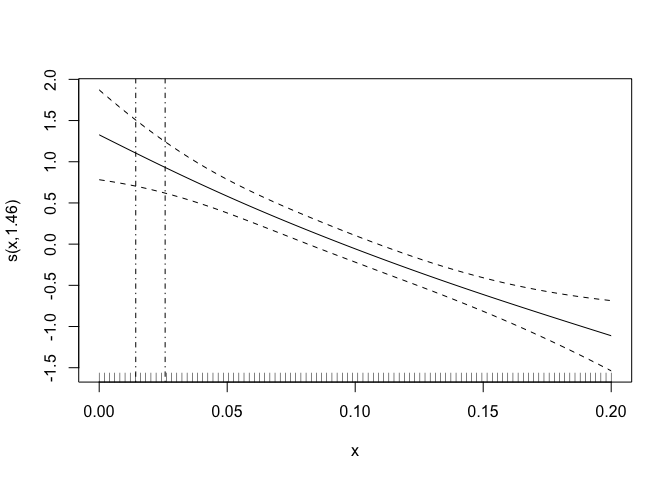
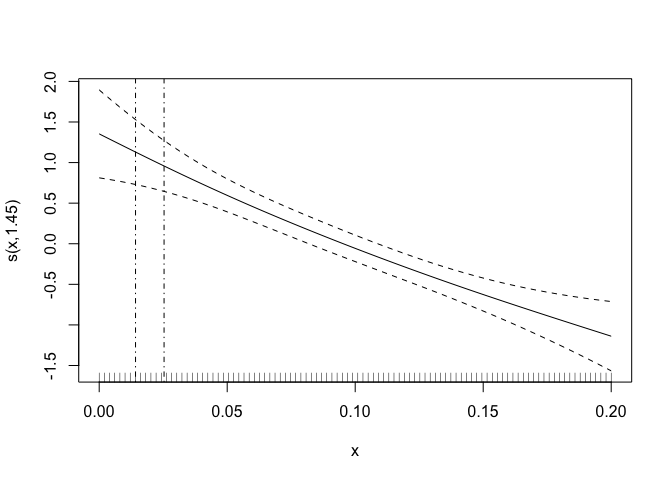
added computation times

diff --git a/README.md b/README.md
@@ -34,12 +34,12 @@ head(dat)
 ```
 
     ##          y           x         x1         x2
-    ## 1 5.567913 0.000000000 0.14743287 0.17684554
-    ## 2 6.073063 0.002020202 0.01475311 0.06008934
-    ## 3 5.103770 0.004040404 0.17848509 0.07211622
-    ## 4 3.949342 0.006060606 0.03116702 0.05770544
-    ## 5 2.025384 0.008080808 0.02020776 0.10705371
-    ## 6 3.121305 0.010101010 0.04657504 0.18873361
+    ## 1 5.761869 0.000000000 0.19493468 0.07789323
+    ## 2 6.094853 0.002020202 0.04219268 0.09317832
+    ## 3 4.980793 0.004040404 0.13237715 0.10287713
+    ## 4 3.915523 0.006060606 0.05577983 0.14075035
+    ## 5 2.175104 0.008080808 0.12675188 0.17042177
+    ## 6 3.346316 0.010101010 0.11417753 0.09892756
 
 The exposure variable is `x` and there are two additional variables `x1`
 and `x2` that can be included in the model.
@@ -98,26 +98,26 @@ summary(mod)
     ## 
     ## Parametric coefficients:
     ##             Estimate Std. Error t value Pr(>|t|)    
-    ## (Intercept)  4.10929    0.54164   7.587 2.15e-11 ***
-    ## x1           2.22784    1.89863   1.173    0.244    
-    ## x2          -0.04648    2.04971  -0.023    0.982    
+    ## (Intercept)   4.1920     0.5348   7.838 6.41e-12 ***
+    ## x1            3.1940     2.0581   1.552    0.124    
+    ## x2           -1.4999     1.9450  -0.771    0.443    
     ## ---
     ## Signif. codes:  0 '***' 0.001 '**' 0.01 '*' 0.05 '.' 0.1 ' ' 1
     ## 
     ## Approximate significance of smooth terms:
     ##        edf Ref.df     F  p-value    
-    ## s(x) 1.459  1.758 12.71 4.35e-05 ***
+    ## s(x) 1.451  1.747 13.21 3.24e-05 ***
     ## ---
     ## Signif. codes:  0 '***' 0.001 '**' 0.01 '*' 0.05 '.' 0.1 ' ' 1
     ## 
-    ## R-sq.(adj) =  0.302   Deviance explained = 32.6%
-    ## GCV score = 1.2406  Scale est. = 1.1853    n = 100
+    ## R-sq.(adj) =  0.291   Deviance explained = 31.6%
+    ## GCV score =  1.239  Scale est. = 1.1839    n = 100
     ## 
     ## ---
     ## Benchmark dose summary:
     ## ---
     ##      bmd   bmdl
-    ## 1 0.0258 0.0143
+    ## 1 0.0253 0.0142
     ## ---
 
 ``` r
@@ -167,25 +167,25 @@ summary(mod)
     ## 
     ## Parametric coefficients:
     ##             Estimate Std. Error t value Pr(>|t|)    
-    ## (Intercept)   2.3323     0.2614   8.923 3.15e-14 ***
-    ## x1            2.2274     1.9011   1.172    0.244    
-    ## x2           -0.0341     2.0511  -0.017    0.987    
+    ## (Intercept)   2.3869     0.3015   7.917 4.34e-12 ***
+    ## x1            3.1698     2.0580   1.540    0.127    
+    ## x2           -1.5140     1.9480  -0.777    0.439    
     ## ---
     ## Signif. codes:  0 '***' 0.001 '**' 0.01 '*' 0.05 '.' 0.1 ' ' 1
     ## 
     ## Approximate significance of smooth terms:
-    ##        edf Ref.df    F p-value    
-    ## s(x) 1.351  1.621 26.4 2.5e-07 ***
+    ##        edf Ref.df     F  p-value    
+    ## s(x) 1.359  1.634 27.76 1.62e-07 ***
     ## ---
     ## Signif. codes:  0 '***' 0.001 '**' 0.01 '*' 0.05 '.' 0.1 ' ' 1
     ## 
-    ## R-sq.(adj) =  0.301   Deviance explained = 32.5%
-    ## GCV =  1.241  Scale est. = 1.187     n = 100
+    ## R-sq.(adj) =   0.29   Deviance explained = 31.4%
+    ## GCV = 1.2394  Scale est. = 1.1854    n = 100
     ## ---
     ## Benchmark dose summary:
     ## ---
     ##      bmd   bmdl
-    ## 1 0.0281 0.0176
+    ## 1 0.0274 0.0172
     ## ---
 
 ``` r
@@ -232,7 +232,7 @@ various getter functions to get everything:
 get_bmd(mod)
 ```
 
-    ## [1] 0.02814321 0.01761193
+    ## [1] 0.02741399 0.01718625
 
 ``` r
 # All BMDLs:
@@ -240,7 +240,7 @@ get_all_bmdl(mod)
 ```
 
     ##      score      delta  bootstrap 
-    ## 0.01761193 0.01199496 0.01134902
+    ## 0.01718625 0.01174707 0.01143073
 
 # Errors and diagnostics
 
@@ -266,15 +266,15 @@ You can see diagnostics and approximation quantities too:
 get_uxb(mod)
 ```
 
-    ##           1 
-    ## 1.93638e-08
+    ##            1 
+    ## 2.012383e-08
 
 ``` r
 get_psixl(mod)
 ```
 
-    ##               1
-    ## 1 -1.010736e-08
+    ##              1
+    ## 1 -1.07866e-08
 
 ``` r
 # Approximation quantities: variance and derivative of U at BMD (used for delta method)
@@ -282,4 +282,12 @@ get_approximations(mod)
 ```
 
     ##          Vn         Upn 
-    ##  0.01095053 12.70106418
+    ##  0.01087876 13.04831181
+
+``` r
+# Computation times of each step
+get_computation_times(mod)
+```
+
+    ##       model         bmd  bmdl_score  bmdl_delta   bmdl_boot       total 
+    ## 0.010703087 0.007566929 0.014806986 0.008208990 7.307726860 7.349012852
